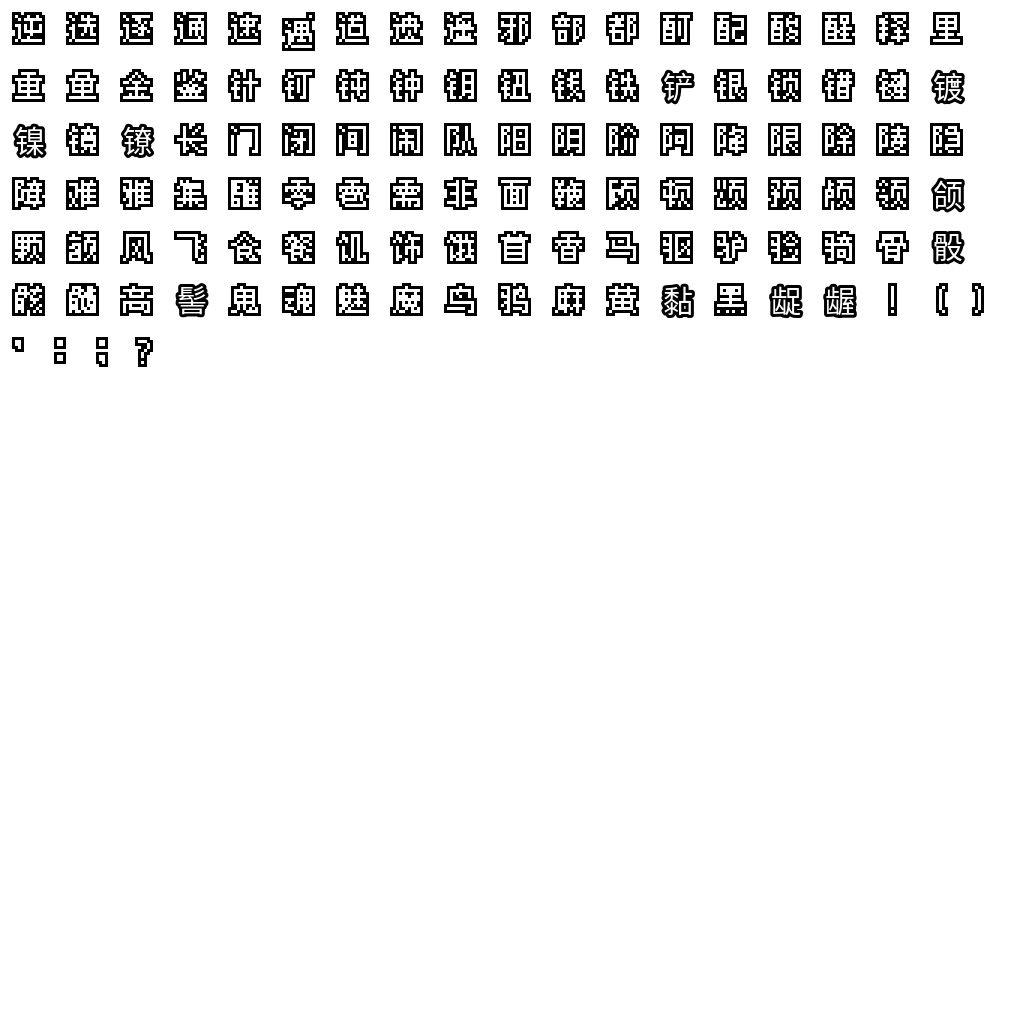
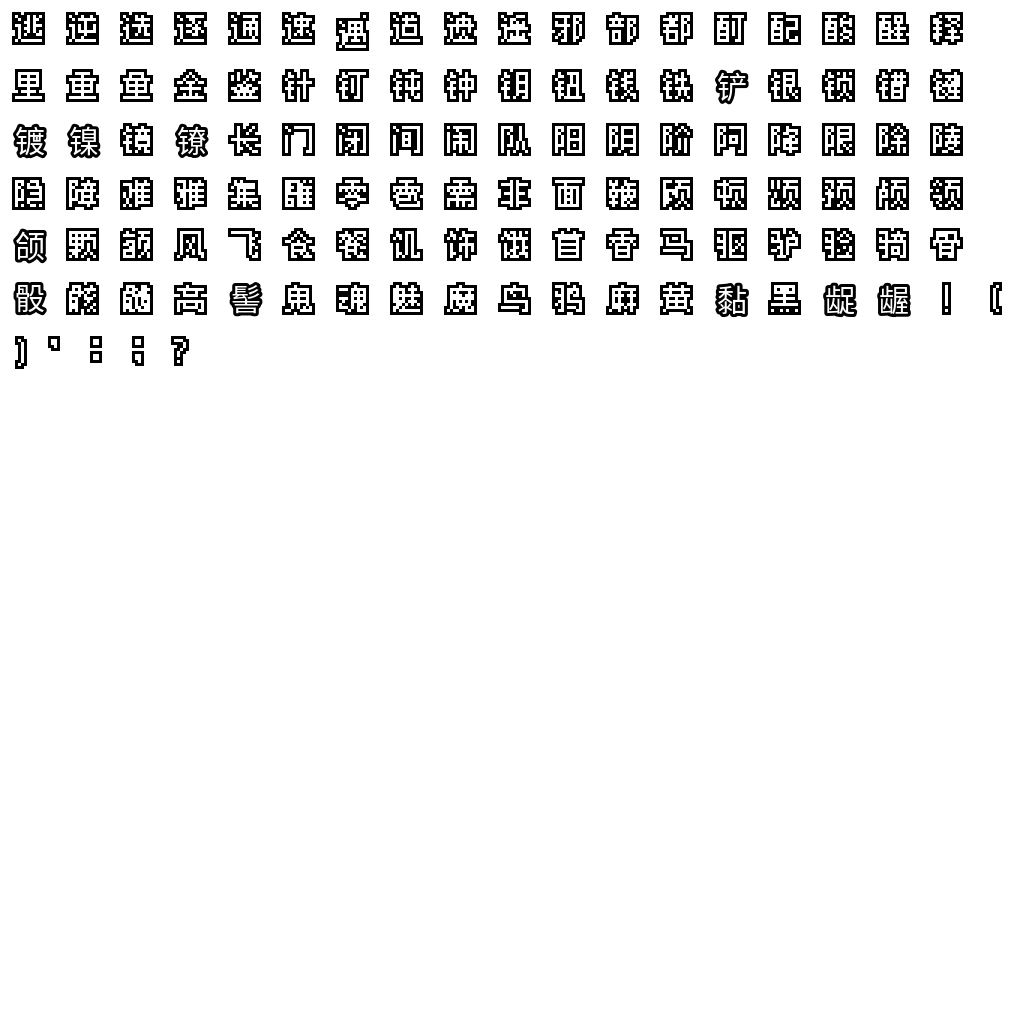
release: prepare v0.8.1 Workshop package

diff --git a/tests/mod-contract.test.js b/tests/mod-contract.test.js
@@ -18,9 +18,9 @@ test("mod has v0.8.1 Workshop metadata and registers gameplay callbacks", () => 
   assert.match(metadata, /<version>0\.8\.1<\/version>/);
   assert.match(mcm, /Achievement Tracker v0\.8\.1/);
   assert.doesNotMatch(mcm, /Achievement Tracker v0\.2\.0/);
-  assert.match(description, /Version 0\.8\.1/);
+  assert.match(description, /Version v0\.8\.1/);
   assert.match(changeNotes, /v0\.8\.1/);
-  assert.match(read("README.md"), /当前版本：\*\*0\.8\.1\*\*/);
+  assert.match(read("README.md"), /当前版本：\*\*v0\.8\.1\*\*/);
   for (const document of [description, changeNotes, read("README.md")]) {
     assert.match(document, /11[^\n]*22[^\n]*33|11\/22\/33/,
       "release copy must describe the shared native integer-multiple HUD/F3 tiers");
@@ -43,7 +43,7 @@ test("Workshop publication assets satisfy uploader limits", () => {
   const cover = fs.statSync(path.join(root, "docs/workshop/cover.png"));
   assert.ok(description.length < 8000, "Workshop description must stay below 8000 characters");
   assert.ok(cover.size < 1024 * 1024, "Workshop cover must stay below 1 MiB");
-  assert.match(description, /Version 0\.8\.1/);
+  assert.match(description, /Version v0\.8\.1/);
 });
 
 test("catalog exposes only achievement-backed goals and drops stale tracked ids", () => {

diff --git a/docs/testing/text-display-robustness.tdd.md b/docs/testing/text-display-robustness.tdd.md
@@ -1,4 +1,4 @@
-# 0.7.2 text display robustness — TDD evidence
+# v0.8.1 text display robustness — TDD evidence
 
 ## Scope
 
@@ -6,24 +6,30 @@
 - Binary 11px LanaPixel glyphs with exact nearest-neighbor 2x/3x variants, plus antialiased Source Han fallback glyphs.
 - Height-first panel expansion, native-tier fallback, and resolution-, language-, and font-aware pagination.
 - Full-width wrapped bilingual achievement conditions and compact reward summaries.
-- Independent HUD/F3 native-tier settings and schema 7 to 8 migration.
+- Independent HUD/F3 native-tier settings, schema 9 persistence, and legacy migration.
 - HUD position-preserving tier fallback, 11px left shift, complete-goal pagination, and centered warning fitting.
-- Consistent 0.7.2 metadata and Workshop copy.
+- A 0–8px integer HUD line-spacing setting used by fitting, pagination, safe bounds, and centered warnings.
+- Consistent v0.8.1 metadata and Workshop copy.
 
 ## RED
 
-The focused regression suite was run before implementation:
+The v0.8.1 release regression suite was run before the font and release-copy fixes:
 
-- Command: `node --test tests/text-layout.test.js tests/font-assets.test.js tests/mod-contract.test.js tests/achievement-import-contract.test.js tests/save-importer.test.js`
-- Result: 87 tests, 75 passed, 12 failed.
-- Failures covered the absent schema 8 migration, legacy 16px HUD assets and runtime scaling, native-tier HUD layout and pagination, importer schema, MCM options, and updated 0.7.2 documentation.
+- Command: `node --test tests/font-assets.test.js tests/mod-contract.test.js`
+- Result: 57 tests, 52 passed, 5 failed.
+- Three failures proved that the new HUD line-spacing label introduced the missing `距` glyph in all native tiers; two failures proved that public metadata and Workshop copy still exposed 0.7.2.
+- RED checkpoint: `04dc53a test: require v0.8.1 release metadata`.
 
 ## GREEN
 
-- Focused suite: 87/87 passed.
-- Full suite: 106/106 passed with `npm.cmd test`.
-- Coverage suite: 106/106 passed with `npm.cmd run test:coverage`.
+- Focused suite: 88/88 passed.
+- Full suite: 107/107 passed with `npm.cmd test`; no skipped tests.
+- Coverage suite: 107/107 passed with `npm.cmd run test:coverage`; no skipped tests.
 - JavaScript tool coverage: 94.77% lines, 82.61% branches, and 90.32% functions.
+
+All 11/22/33px fonts now contain 1175 runtime glyphs, including `距`. Font contracts verify the
+binary hard-edged LanaPixel base, exact nearest-neighbor 2x/3x variants, matching source manifests,
+and antialiased Source Han fallback glyphs.
 
 The layout regression measures all 641 Chinese and English conditions at 320×180,
 408×270, 480×270, 640×360, 854×480, and 1280×360 ultrawide for all three F3 tiers. It also checks
@@ -31,7 +37,7 @@ the longest English condition (#324), the representative long Chinese condition
 (#235), glyph coverage, line widths, at least one three-item row, and footer clearance.
 HUD coverage verifies native 11/22/33px selection, automatic downgrade at the saved
 position, left shift only at the 11px floor, complete target coverage through pagination
-at 320×180, safe Y bounds, and all bilingual warning conditions.
+at 320×180, safe Y bounds, 0/4/8px line spacing, and all bilingual warning conditions.
 
 ## Manual verification still required
 

diff --git a/README.md b/README.md
@@ -2,7 +2,7 @@
 
 适用于 **The Binding of Isaac: Repentance / Repentance+** 的局内成就条件追踪器。
 
-当前版本：**0.7.2**。
+当前版本：**v0.8.1**。
 
 ## 功能
 
